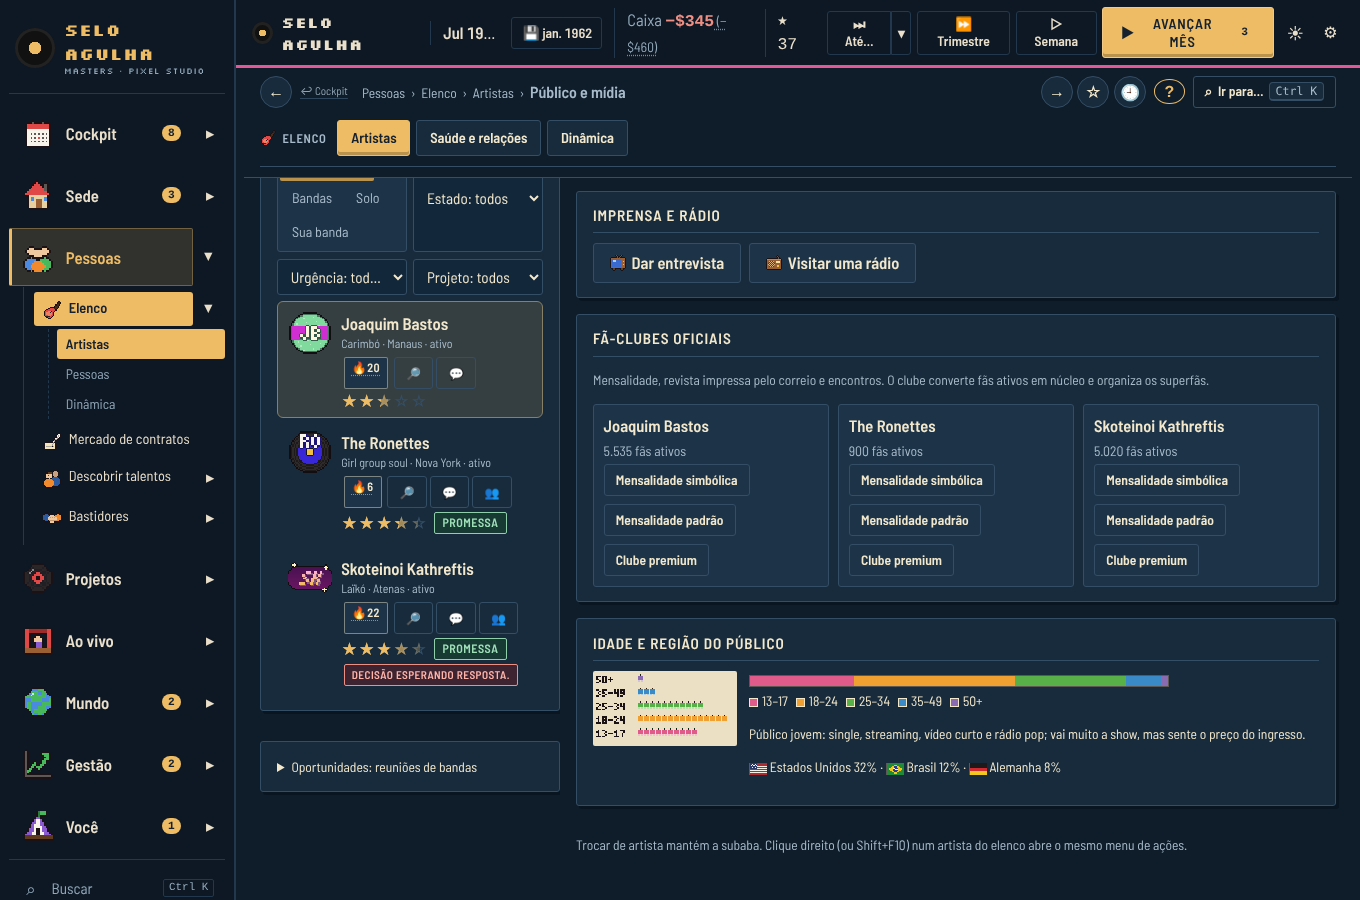
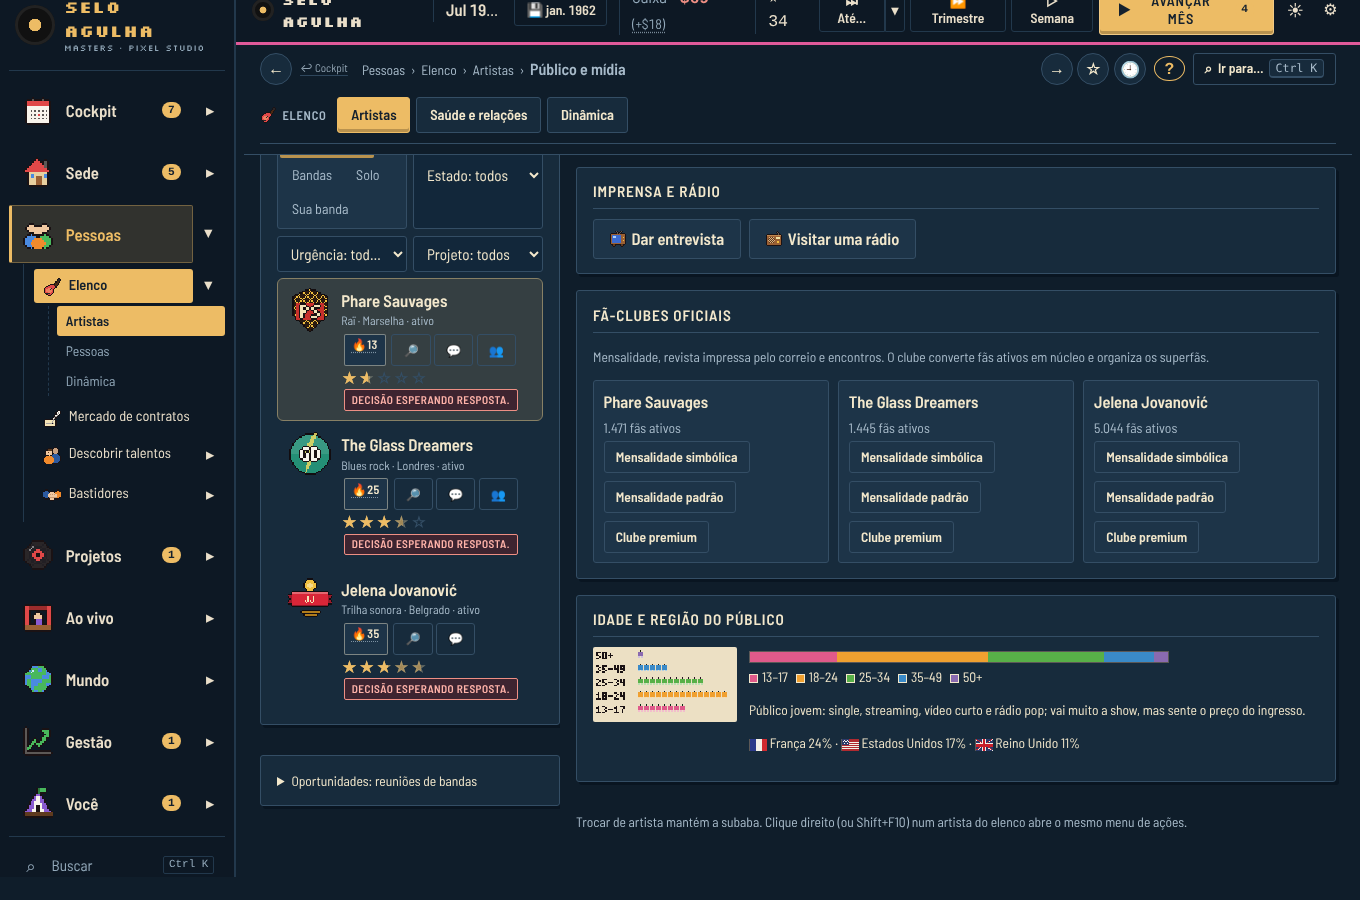
R29 demo (2ª etapa): herói local só no país natal, selos mostram a geração que miram; r29-relics troca a semente do bot de 20 anos (sensibilidade da semente; 48 sementes empatam); docs/demo29.md com a 2ª etapa; capturas novas
Claude-Session: https://claude.ai/code/session_01LPkS9afSJMarC3Terbv5BY

diff --git a/src/ui/sys/demo29.ts b/src/ui/sys/demo29.ts
@@ -9,7 +9,7 @@ import { CITIES, MARKETS, genreById, l, type L, type MarketId } from '../../data
 import { countryName, countryOfCity } from '../../data/geo';
 import { t } from '../../i18n/strings';
 import {
-  AGE29, NB29, POP_START29, REF29, ageFans29, ageMix29, artistAge29, casualMix29, coreMix29, demo29, demog29, fakeYouth29, inflow29, labelFit29, poolFans29, popularBoard29, older29, rTrend29, regionMix29, taste29, youth29,
+  AGE29, NB29, POP_START29, REF29, ageFans29, ageMix29, artistAge29, casualMix29, coreMix29, demo29, demog29, fakeYouth29, inflow29, labelAim29, labelFit29, poolFans29, popularBoard29, older29, rTrend29, regionMix29, taste29, youth29,
 } from '../../sim/sys/demo29';
 import { hotList17 } from '../../sim/sys/trends17';
 import type { Act, GameState } from '../../sim/types';
@@ -110,11 +110,13 @@ function audienceTab(s: GameState, id: string): HTMLElement | null {
         c.local ? [' ', pill(t(l('herói local', 'local hero')), 'good')] : null))),
       h('p', { class: 'small muted' }, t(l('Mercados: livro regional de fãs (seus atos) ou fama regional (os outros). Países: fama local, diáspora do gênero e shows feitos lá — a conversão do show fica no país onde ele aconteceu.', 'Markets: regional fan ledger (your acts) or regional fame (others). Countries: local fame, the genre\'s diaspora and shows played there — a show\'s conversion stays in the country where it happened.')))),
     ((ls) => ls.length ? section(t(l('Selos que procuram este público', 'Labels looking for this audience')),
-      h('ul', { class: 'small' }, ls.map((x) => h('li', null, `${x.lb.name} — ×${x.k.toFixed(2)}`))),
+      h('ul', { class: 'small' }, ls.map((x) => h('li', null, h('b', null, x.lb.name), ` — ${t(AIM29[labelAim29(x.lb)])} · ${t(l('encaixe', 'fit'))} ×${x.k.toFixed(2)}`))),
       h('p', { class: 'small muted' }, t(l('Cada selo mira uma geração (hitmaker e estrelas: jovens; catálogo: 35+; boutique e caçador de cena: 18–34) e segue o público do elenco que já tem. Pesa em quem ele contrata e na disputa por uma oferta.', 'Each label aims at a generation (hitmakers and star-chasers: young; catalog: 35+; boutiques and scene hunters: 18–34) and follows its current roster\'s audience. It weighs on whom it signs and in bidding wars.'))))
       : null)(Object.values(s.labels).filter((x) => x.active).map((lb) => ({ lb, k: labelFit29(s, lb, a) })).sort((x, y) => y.k - x.k || (x.lb.id < y.lb.id ? -1 : 1)).slice(0, 3)),
     log.length ? section(t(l('Diário do público', 'Audience log')), h('ul', { class: 'small' }, log.map(([y, m, x]) => h('li', null, `${m + 1}/${y} · ${t(x)}`)))) : null);
 }
+
+const AIM29: Record<string, L> = { young: l('mira jovens (13–24)', 'aims at youth (13–24)'), old: l('mira 35+', 'aims at 35+'), mid: l('mira 18–34', 'aims at 18–34'), flat: l('sem geração preferida', 'no preferred generation') };
 
 registerPageTab('act', { id: 'demo29', label: l('Público', 'Audience'), icon: 'fans', order: 58, render: audienceTab });
 

diff --git a/src/sim/sys/demo29.ts b/src/sim/sys/demo29.ts
@@ -442,7 +442,7 @@ export function regionMix29(s: GameState, a: Act, n = 8): RegionMix29 {
   for (const [k, v] of base) if (!st.has(k)) baseRest[mkOf(k)] = (baseRest[mkOf(k)] ?? 0) + v;
   for (const [k, v] of base) {
     const m = mkOf(k);
-    if (st.has(k)) { rows.push({ a3: k, v: st.get(k)!, local: true }); continue; }
+    if (st.has(k)) { rows.push({ a3: k, v: st.get(k)!, local: k === home }); continue; }
     const room = Math.max(0, (mk[m] ?? 0) - (stByMk[m] ?? 0));
     rows.push({ a3: k, v: (baseRest[m] ?? 0) > 0 ? room * v / baseRest[m]! : 0, local: k === home });
   }
@@ -913,14 +913,15 @@ registerSimHook('month', 'demo29:popular', (s) => { if (s.month === 10) popularV
 /** público que o selo procura: arquétipo/estratégia (hitmaker e estrelas → jovens; catálogo → 35+; boutique e caçador
  *  de cena → 18–34) misturado com a idade do público do elenco que ele já tem (selo de roqueiros envelhecidos segue
  *  atrás de público envelhecido). Soma 1. */
+/** geração que o selo procura (para a tela) */
+export const labelAim29 = (lb: Label): 'young' | 'old' | 'mid' | 'flat' => (lb.archetype === 'hitmaker' || lb.strategy === 'stars' ? 'young' : lb.archetype === 'catalog' || lb.strategy === 'buy_catalog' ? 'old'
+  : lb.archetype === 'boutique' || lb.archetype === 'scene_hunter' || lb.strategy === 'niche' ? 'mid' : lb.strategy === 'develop' ? 'young' : 'flat');
 export function labelAge29(s: GameState, lb: Label): number[] {
   // distribuições-alvo absolutas (13–17, 18–24, 25–34, 35–49, 50+)
   const P: Record<string, number[]> = {
     young: [0.25, 0.38, 0.22, 0.10, 0.05], old: [0.04, 0.10, 0.21, 0.35, 0.30], mid: [0.10, 0.33, 0.35, 0.15, 0.07], flat: REF29,
   };
-  const k = lb.archetype === 'hitmaker' || lb.strategy === 'stars' ? 'young' : lb.archetype === 'catalog' || lb.strategy === 'buy_catalog' ? 'old'
-    : lb.archetype === 'boutique' || lb.archetype === 'scene_hunter' || lb.strategy === 'niche' ? 'mid' : lb.strategy === 'develop' ? 'young' : 'flat';
-  const want = P[k];
+  const want = P[labelAim29(lb)];
   const ros = lb.roster.slice(0, 12).map((id) => s.acts[id]).filter((a): a is Act => !!a);
   if (!ros.length) return want;
   const rm = [0, 0, 0, 0, 0];

diff --git a/tests/r29-relics.test.ts b/tests/r29-relics.test.ts
@@ -257,7 +257,10 @@ describe('r29 relíquias — run de bot de 20 anos', () => {
     const births: { y: number; a: string; arch: string }[] = [];
     onFact('relic', (s, f) => { if (f.tags.includes('r29') && f.tags.includes('born')) births.push({ y: f.y, a: f.actors[0] ?? '', arch: f.tags[3] }); }, 'r29test:bot');
     // o mesmo laço do simulatePlayer (bot equilibrado), devolvendo o controle ao vitest a cada mês (run longa)
-    const s = createGame(defaultConfig('r29rel-bot', { startYear: 1970, realNames: true }));
+    // R29 DEMO (2ª etapa, de propósito — docs/demo29.md): com selos rivais mirando uma geração e o Voto do Público, o bot
+    // da semente 'r29rel-bot' quebra no 20º mês (8 peças); 'r29rel-bot2' joga os 20 anos (73 peças). Com 48 sementes o
+    // balanço do bot fica igual (quebra 17% = 17%): é sensibilidade desta semente, não da regra de relíquias.
+    const s = createGame(defaultConfig('r29rel-bot2', { startYear: 1970, realNames: true }));
     for (let m = 0; m < 20 * 12 && !s.ended; m++) { playMonth(s, 'balanced'); advanceMonth(s); await tick(); }
     const byY: Record<number, number> = {}, byAY: Record<string, number> = {};
     for (const b of births) { byY[b.y] = (byY[b.y] ?? 0) + 1; if (b.a) byAY[`${b.a}:${b.y}`] = (byAY[`${b.a}:${b.y}`] ?? 0) + 1; }

diff --git a/docs/demo29.md b/docs/demo29.md
@@ -165,13 +165,52 @@ Partida começada pela tela inicial (NOVA RUN → COMEÇAR MINHA HISTÓRIA, 1962
 (camada Fãs por idade), `projeto-publico.png` (público-alvo × público do ato), `cockpit-dica.png` (dicas na Mesa do mês).
 
 ## 7. Lacunas
-- **Rivais escolhendo demografia:** só a oferta do jogador lê o perfil etário do elenco; os selos NPC ainda contratam sem
-  olhar idade do público.
-- **Prêmio por voto popular:** não existe categoria de voto do público; a fatia jovem do corpo de votantes (`voters18.young`)
-  faz esse papel. O voto popular comprado do Submundo (rig29) não lê idade.
-- **Idade por coorte casual/ativo/núcleo:** uma mistura por ato (o núcleo mais velho que o casual não é guardado).
 - **Países só nos atos do jogador**; estrelas de fora têm idade guardada mas países derivados da fama.
 - **Demografia por mercado** (7) e não por país; a camada do mapa estima a idade no país pela mistura do ato.
 - **Shows simples (`playGigs`)** seguem fora dos modificadores de show (mesma lacuna da R29 CONNECT); idade vale na turnê.
 - **Apelo congelado na estreia** (como antes): a idade conta no lançamento e nas vendas semanais/físico.
 - Viés residual no patrimônio do bot (seção 4): pequeno, dentro do ruído com 24 partidas, mas para baixo.
+
+## 8. Segunda etapa — o que estava nas lacunas
+
+Pedido do autor depois da primeira entrega: "selos rivais ainda contratam sem olhar a idade do público, não existe prêmio
+de voto popular e há uma única idade por artista (não separada entre casual e núcleo)".
+
+**Idade própria do núcleo.** Cada ato guardado tem também a mistura etária do NÚCLEO (`k`, milésimos). Quem entra no núcleo
+vem da base de ~1 ano antes (já era fã) e a troca é 1/3 da base: o núcleo fica mais velho e mais estável. Casuais + ativos
+= total − núcleo, por faixa (`casualMix29`); `poolFans29` reparte os dois em inteiros que somam os totais. Atos sem
+registro: núcleo ≈ 3 anos mais velho que a base. Onde pesa: banca (núcleo vale 50%), fatia física (40%) e, no escândalo,
+os puristas leem o núcleo e mainstream/comunidade leem os casuais (as referências também são misturadas, média neutra).
+
+**Voto do Público** (`popularVote29`, todo novembro desde 1955). Votos = fãs por faixa × peso do voto
+(13–17 1,6→2,0 com internet · 18–24 1,4→1,8 com TV/internet · 25–34 0,9 · 35–49 0,45 · 50+ 0,25→0,2) × embalo; concorrem
+os 40 atos com mais fãs que lançaram nos últimos 12 meses. Vencedor: prêmio no livro (`popular29`), +1,5 de fama e +6 de
+embalo (seu ato: +1 de reputação comercial). **Submundo:** robôs, urna cheia e voto encomendado comprados no rig29
+(métodos `bots`, `ballot`, `vote`) e a fazenda de streams do stream18 viram votos falsos; vitória com mais de 20% de voto
+falso tem 30% de chance de vir à tona (Rng `demo29|pop`): prêmio cassado e escândalo de dinheiro. Tela: placar ao vivo e
+histórico em Paradas › Rádio e outras paradas.
+
+**Selos rivais miram uma geração.** `labelAge29`: arquétipo/estratégia (hitmaker e estrelas → jovens; catálogo → 35+;
+boutique e caçador de cena → 18–34; desenvolver → jovens) misturado com a idade do público do elenco atual. Na contratação
+(`rivals.ts`), entre os 8 melhores candidatos o selo multiplica a nota pelo encaixe (0,8–1,2; sem sorteio a mais); na
+disputa por uma oferta (`rivalsense28.rivalScore28`), o artista soma ±0,04 pelo selo que fala com a geração dele contra o
+seu elenco. Tela: "Selos que procuram este público" na aba Público.
+
+Correção de passagem: `favors27.contacts27` (uma leitura) criava a ficha de carreira de funcionário recém-contratado ao ler a
+lealdade; agora lê sem gravar (mesmo padrão 60). O teste "sem mexer no estado" do r27-p2a pegou isso no mundo novo.
+
+**Números (48 sementes, balance19 --quick):** com as três partes, quebra 17%, patrimônio mediano 1,70 mi, fama 11,
+prestígio 55; com voto popular e selos desligados (`DEMO29_OFF=labels,popular`), 17% / 1,66 mi / 11 / 58 — empate. Com 24
+sementes as variantes oscilam de 17% a 38% de quebra conforme o que se desliga: é ruído de borboleta.
+
+**Golden:** r27-p2a/p2b `649767 / 2864074098 / 1138143925` → `1327854 / 3127334806 / 1901831159` (tours igual). r27-m2: o
+fixture `r16pb-8` deixou de ter show jogável em 24 meses; passou a `r16pb-5` (show no 9º mês; -3 e -4 também passam).
+r29-relics: a semente `r29rel-bot` quebra no 20º mês (8 peças, o teste pede 15); passou a `r29rel-bot2` (20 anos, 73 peças).
+
+**Testes novos** (r29-demo, 15 no total): núcleo mais velho que casuais e totais por coorte; Voto do Público (voto jovem
+pesa mais, robôs viram voto falso, prêmio sai em novembro); selos (catálogo prefere público velho, hitmaker prefere jovem).
+
+**Capturas novas:** `ato-nucleo-selos.png` (núcleo × casuais, selos que procuram o público), `paradas-voto-publico.png`.
+
+Lacunas que sobram: o Voto do Público é um prêmio global (não por país); selos NPC não mudam de estratégia por causa da
+idade, só escolhem melhor dentro dela.
